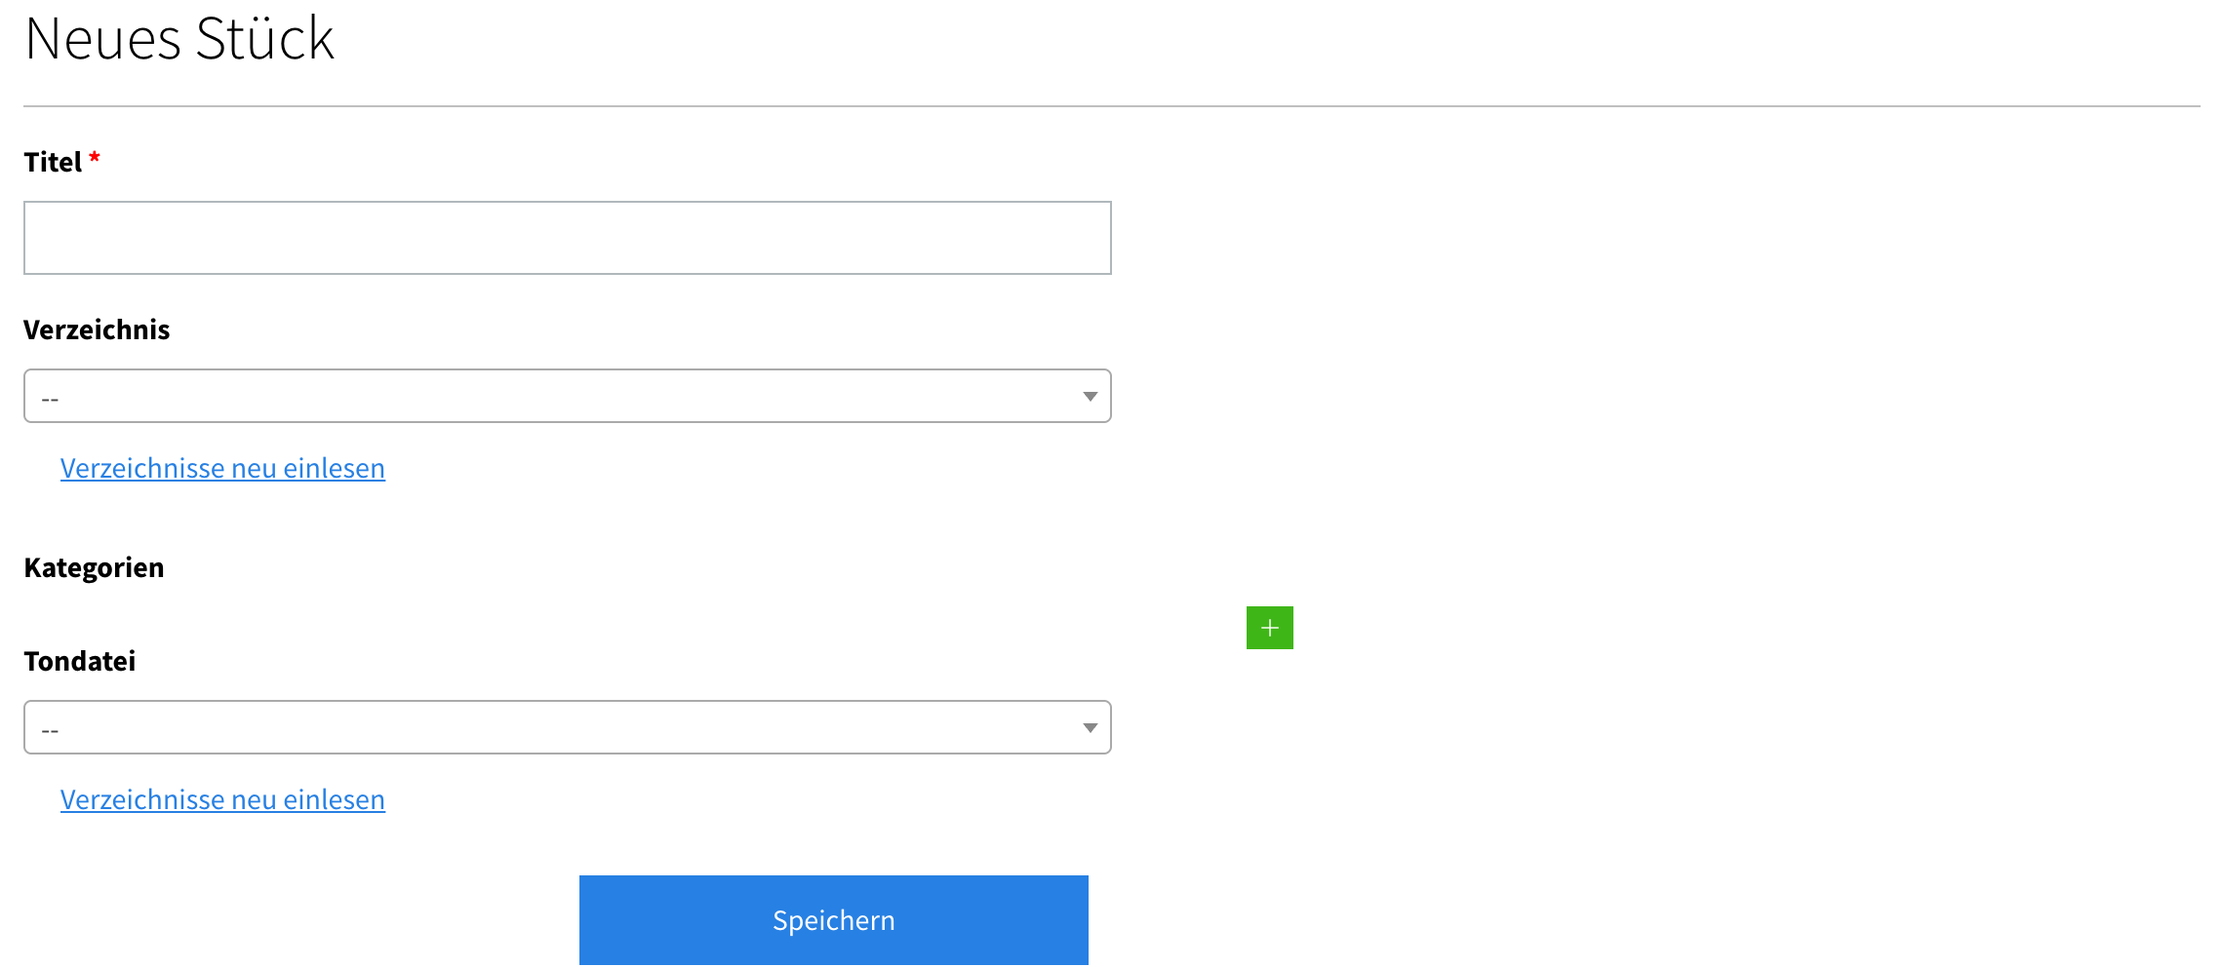
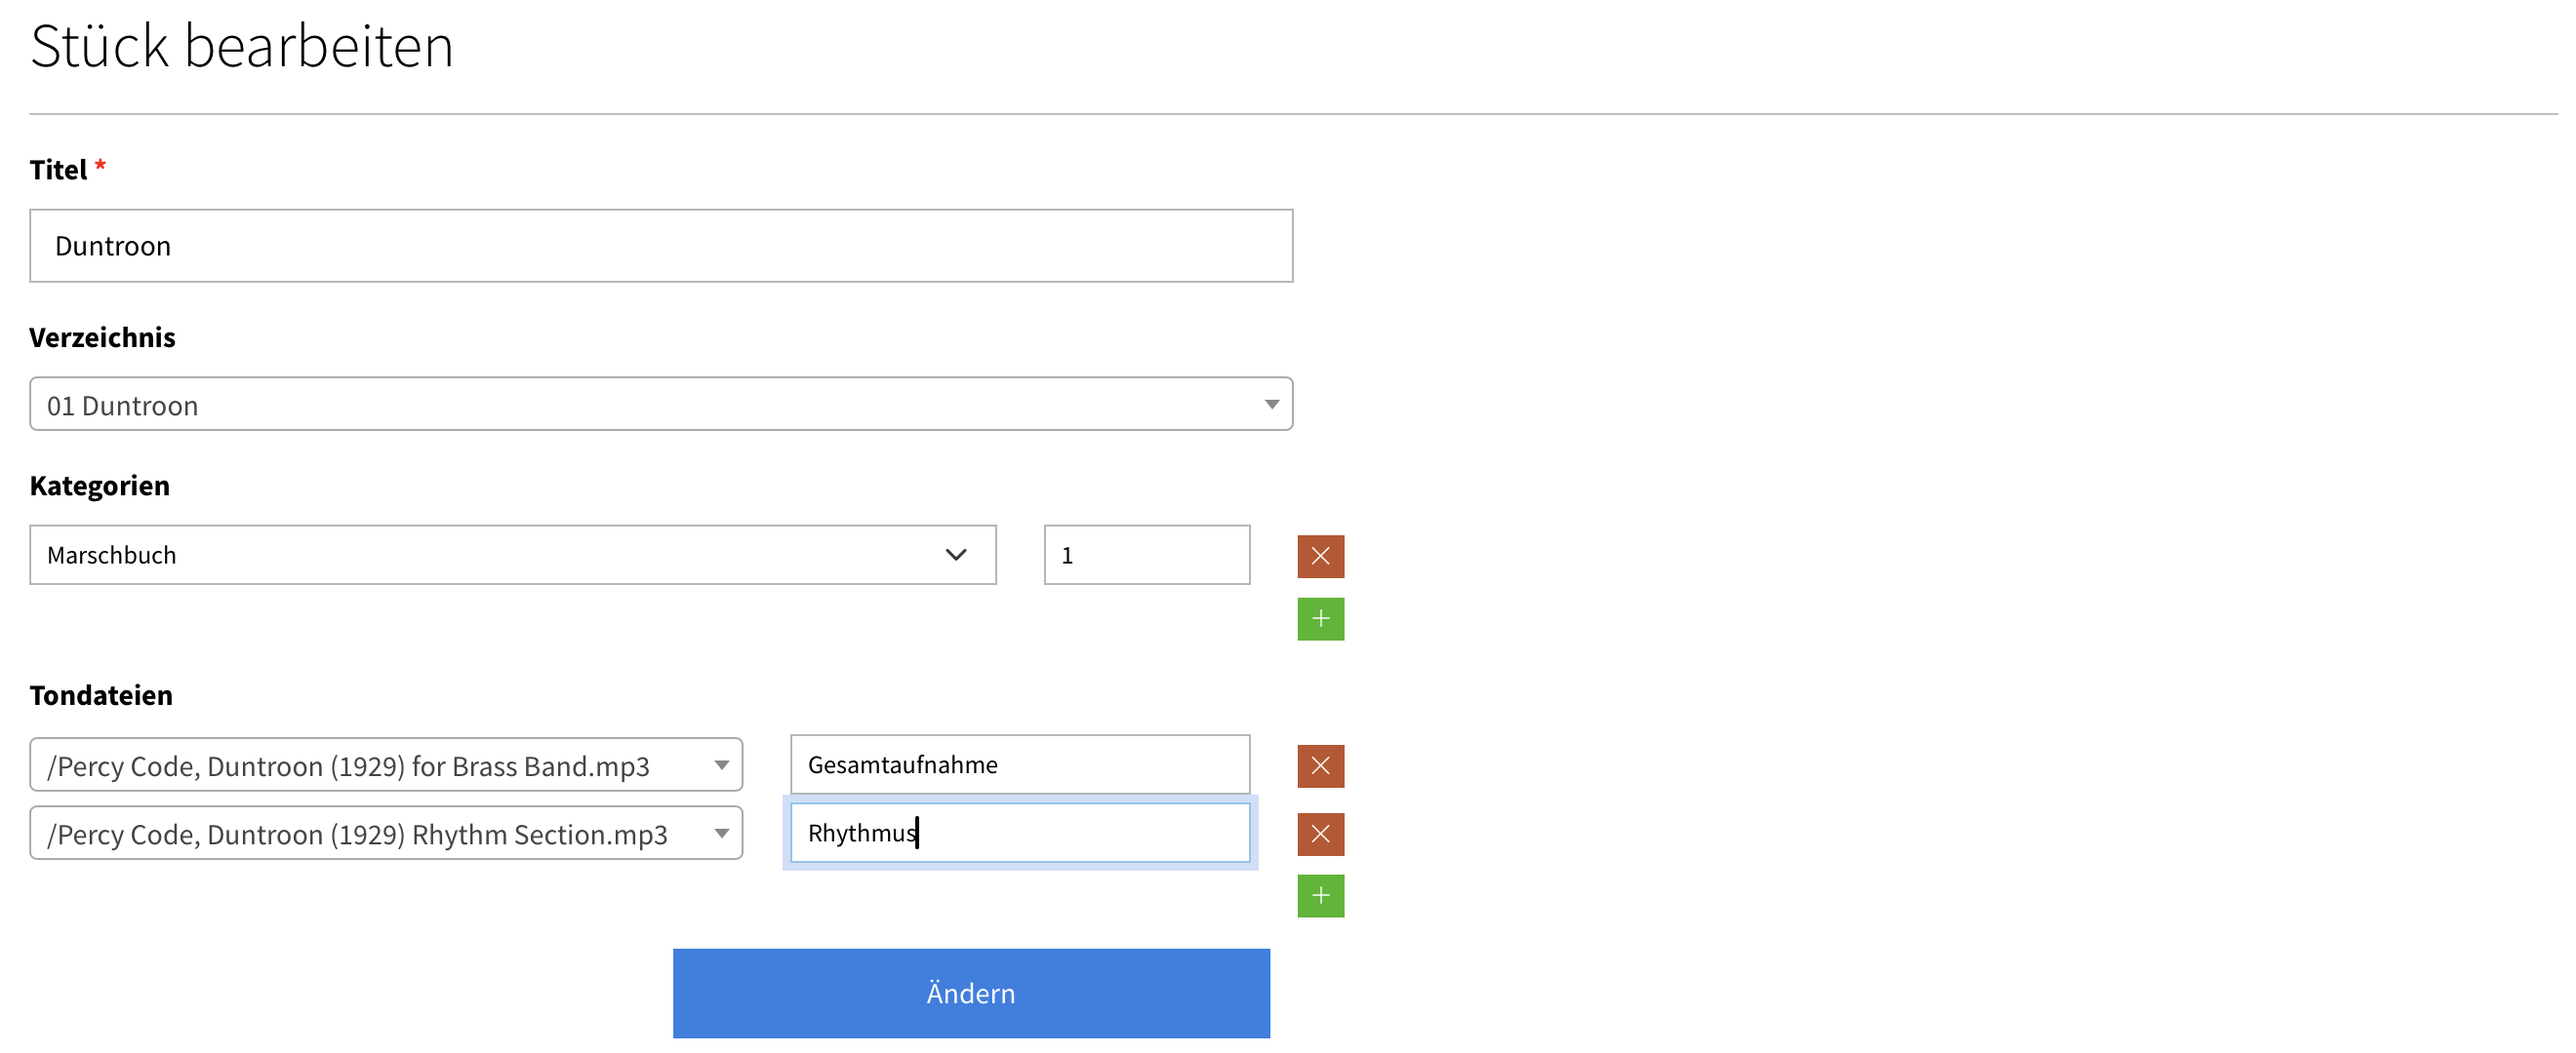
docs(noten): new piece form screenshot with multiple audio samples

diff --git a/docs/noten/stuecke.md b/docs/noten/stuecke.md
@@ -40,7 +40,7 @@ In der Stück-Liste (links) siehst du alle Stücke deines Vereins – wahlweise 
 !!! tip "Mehrere Hörbeispiele pro Stück"
     Mit **+** fügst du weitere Hörbeispiele hinzu, mit **×** entfernst du eines. Das ist praktisch, wenn es neben der Gesamtaufnahme eine Übungsdatei pro Stimme gibt, etwa im Chor für Sopran, Alt, Tenor und Bass. Zu jedem Hörbeispiel kannst du eine **Bezeichnung** angeben (z.B. «Gesamt» oder «Sopran»); sie erscheint bei den Mitgliedern über dem Player. Ohne Bezeichnung siehst du nur den Player, wie bisher. Die Hörbeispiele erscheinen in der Reihenfolge, in der sie im Formular stehen, und alle Mitglieder sehen alle Hörbeispiele des Stücks.
 
-![Formular «Neues Stück» mit Titel, Verzeichnis, Kategorie und Hörbeispiel](../img/noten-stueck-formular.png)
+![Formular «Stück bearbeiten» mit Titel, Verzeichnis, Kategorie und zwei Hörbeispielen mit Bezeichnung](../img/noten-stueck-formular.png)
 
 Wer ein Stück erfasst und zuletzt geändert hat, steht unten in seiner Detailansicht, siehe [Wer hat was geändert?](/admin#wer-hat-was-geandert).
 
